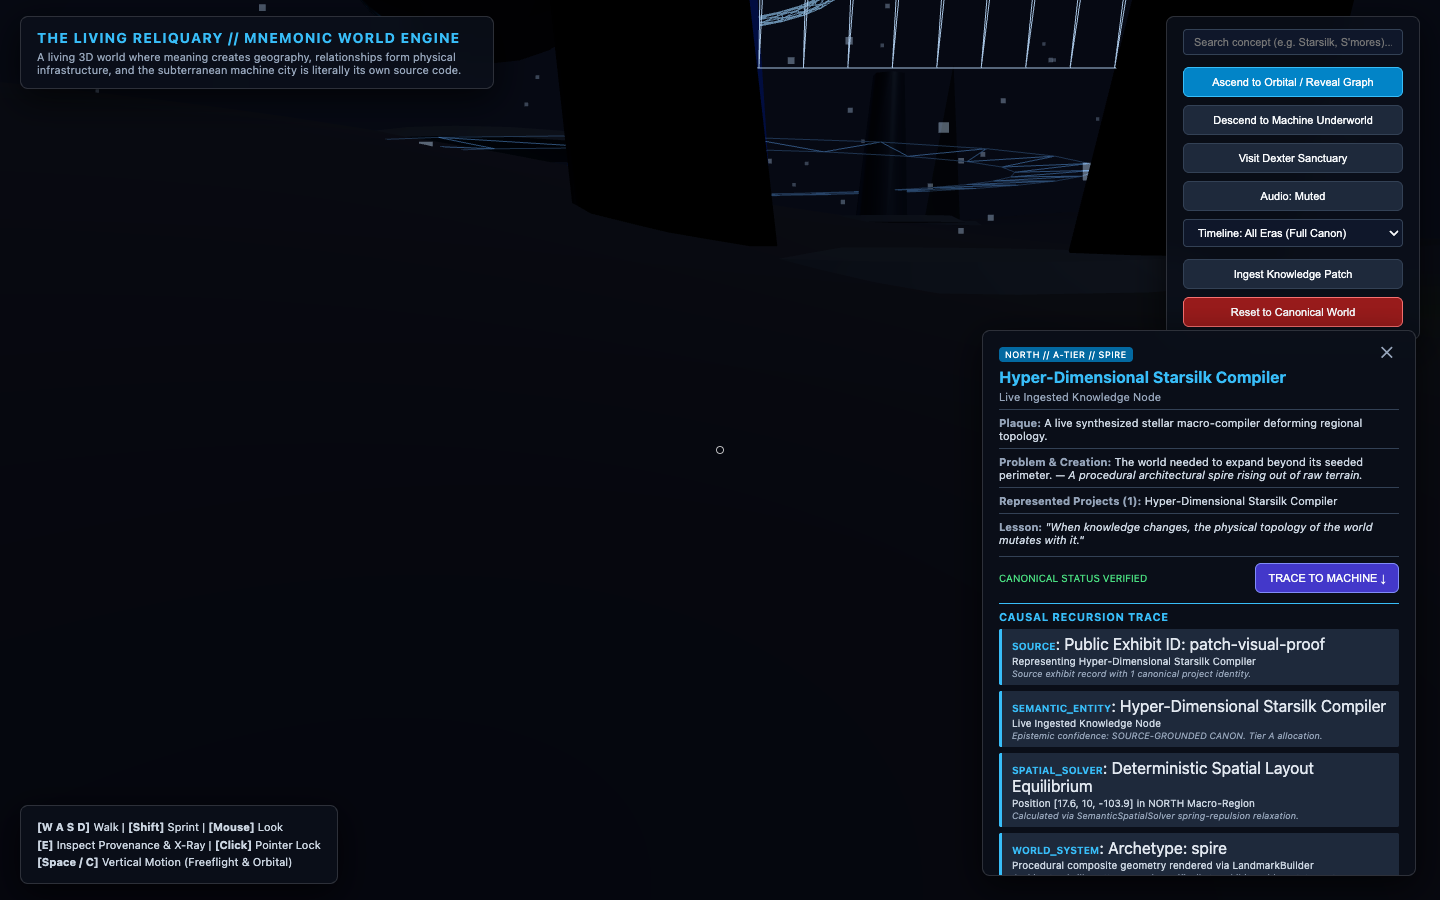
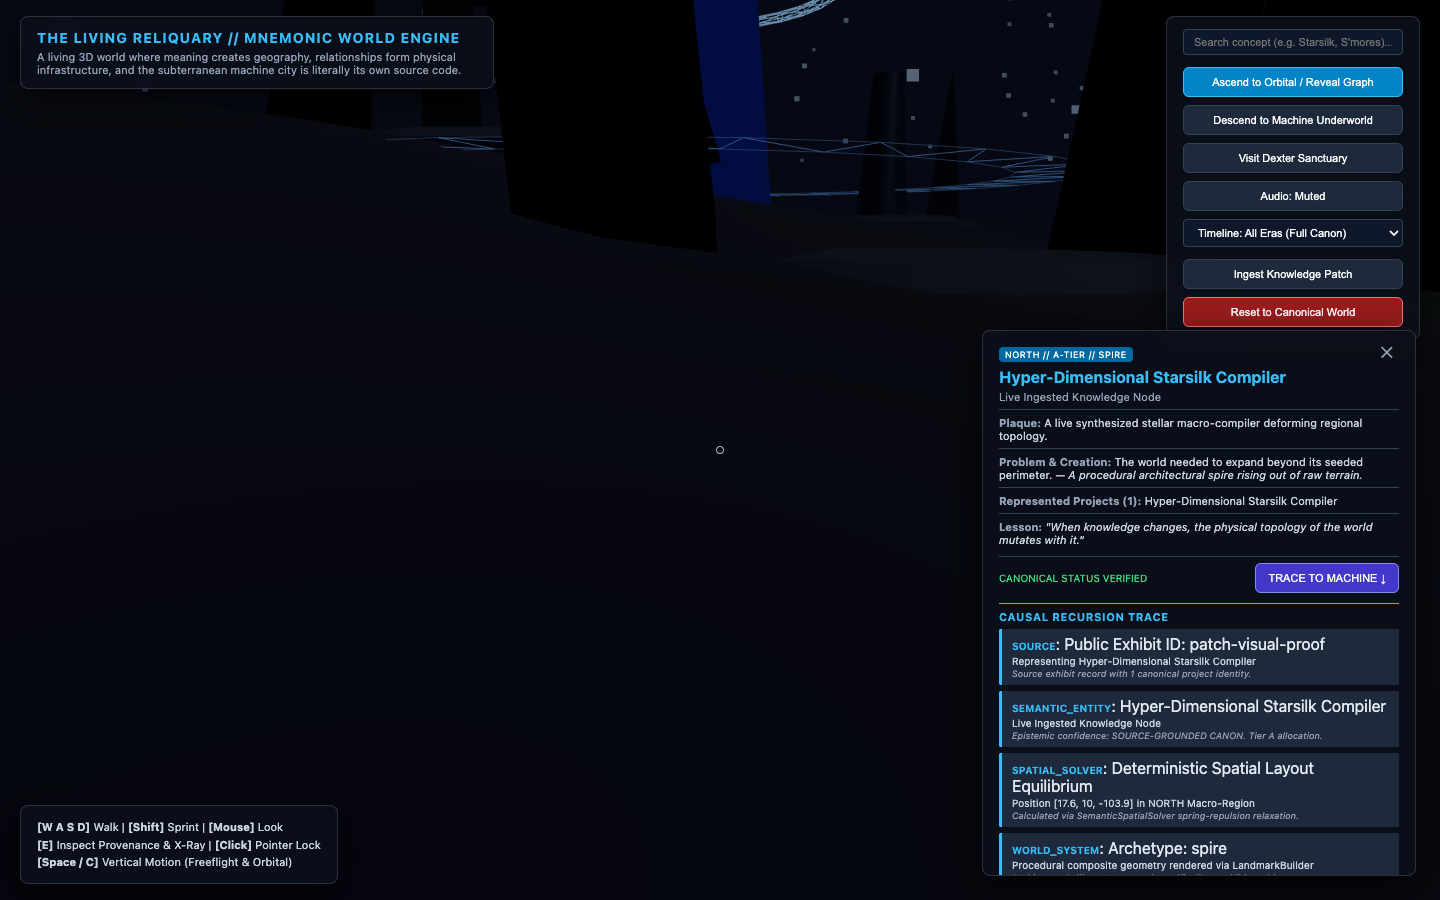
refine(loop-02): authored hero landmarks for Starsilk Loom, Heliocide Lens, and Excavated Ruin

diff --git a/src/world/LandmarkBuilder.ts b/src/world/LandmarkBuilder.ts
@@ -132,30 +132,50 @@ export class LandmarkBuilder {
     return group;
   }
 
-  // 1. E01: Starsilk Loom
+  // 1. E01: Starsilk Loom (Hero celestial weaving engine)
   private static buildStarsilkLoom(g: THREE.Group, s: number) {
-    const obsidian = this.getMaterial(0x0a0f1d, 0.2, 0.8);
-    const starMetal = this.getMaterial(0x3d5afe, 0.3, 0.9, 0x1a237e);
+    const obsidian = this.getMaterial(0x0a0f1d, 0.2, 0.85);
+    const starMetal = this.getMaterial(0x38bdf8, 0.2, 0.9, 0x0369a1);
+    const goldAccents = this.getMaterial(0xf59e0b, 0.3, 0.8);
 
-    // Twin arching celestial warp towers
-    for (const side of [-1, 1]) {
-      const tower = new THREE.Mesh(new THREE.CylinderGeometry(0.8 * s, 1.6 * s, 22 * s, 8), obsidian);
-      tower.position.set(side * 5 * s, 11 * s, 0);
-      tower.rotation.z = -side * 0.1;
-      g.add(tower);
+    // Quadruple stepped pylons with canted buttresses
+    for (const sx of [-1, 1]) {
+      for (const sz of [-1, 1]) {
+        const tower = new THREE.Mesh(new THREE.CylinderGeometry(0.6 * s, 1.4 * s, 26 * s, 6), obsidian);
+        tower.position.set(sx * 5.5 * s, 13 * s, sz * 2.5 * s);
+        tower.rotation.z = -sx * 0.08;
+        g.add(tower);
+      }
     }
 
-    // Weaving beam across the top
-    const beam = new THREE.Mesh(new THREE.BoxGeometry(12 * s, 1.2 * s, 2 * s), starMetal);
-    beam.position.set(0, 20 * s, 0);
-    g.add(beam);
+    // Overhead crowned shuttle gantry
+    const gantry = new THREE.Mesh(new THREE.BoxGeometry(14 * s, 1.6 * s, 6 * s), starMetal);
+    gantry.position.set(0, 25 * s, 0);
+    g.add(gantry);
+
+    // Dynamic rotating celestial warp rings
+    const ring1 = new THREE.Mesh(new THREE.TorusGeometry(3.6 * s, 0.3 * s, 8, 32), goldAccents);
+    ring1.position.set(0, 16 * s, 0);
+    ring1.name = 'rotating_ring_1';
+    g.add(ring1);
+
+    const ring2 = new THREE.Mesh(new THREE.TorusGeometry(5.2 * s, 0.25 * s, 8, 32), starMetal);
+    ring2.position.set(0, 16 * s, 0);
+    ring2.name = 'rotating_ring_2';
+    g.add(ring2);
 
     // Dynamic hanging Starsilk warp threads
-    const threadMat = new THREE.MeshBasicMaterial({ color: 0x82b1ff, wireframe: true });
-    const threads = new THREE.Mesh(new THREE.PlaneGeometry(8 * s, 16 * s, 12, 1), threadMat);
-    threads.position.set(0, 11 * s, 0);
+    const threadMat = new THREE.MeshBasicMaterial({ color: 0x93c5fd, wireframe: true, transparent: true, opacity: 0.85 });
+    const threads = new THREE.Mesh(new THREE.PlaneGeometry(10 * s, 20 * s, 16, 2), threadMat);
+    threads.position.set(0, 14 * s, 0);
     threads.name = 'starsilk_threads';
     g.add(threads);
+
+    // Suspended central crystalline bobbin
+    const bobbin = new THREE.Mesh(new THREE.OctahedronGeometry(1.8 * s), starMetal);
+    bobbin.position.set(0, 16 * s, 0);
+    bobbin.name = 'kinetic_core';
+    g.add(bobbin);
   }
 
   // 2. E03: Orbital Tomb Dismantler
@@ -198,38 +218,78 @@ export class LandmarkBuilder {
     g.add(ring);
   }
 
-  // 4. E08: Heliocide Absence Lens
+  // 4. E08: Heliocide Absence Lens (Massive astronomical occulter)
   private static buildHeliocideLens(g: THREE.Group, s: number) {
-    const darkObsidian = this.getMaterial(0x020408, 0.1, 0.9);
+    const darkObsidian = this.getMaterial(0x020408, 0.1, 0.95);
     const voidMat = new THREE.MeshBasicMaterial({ color: 0x000000 });
+    const goldFoil = this.getMaterial(0xd97706, 0.2, 0.9, 0x78350f);
+
+    // Heavy tripod buttress foundation
+    for (let i = 0; i < 3; i++) {
+      const a = (i / 3) * Math.PI * 2;
+      const leg = new THREE.Mesh(new THREE.CylinderGeometry(0.8 * s, 1.8 * s, 16 * s, 6), darkObsidian);
+      leg.position.set(Math.cos(a) * 7 * s, 8 * s, Math.sin(a) * 7 * s);
+      leg.rotation.z = Math.cos(a) * 0.25;
+      leg.rotation.x = -Math.sin(a) * 0.25;
+      g.add(leg);
+    }
 
     // Enormous vertical aperture framing void of stars
-    const frame = new THREE.Mesh(new THREE.TorusGeometry(6 * s, 1.2 * s, 8, 32), darkObsidian);
-    frame.position.set(0, 12 * s, 0);
+    const frame = new THREE.Mesh(new THREE.TorusGeometry(7.5 * s, 1.4 * s, 8, 36), darkObsidian);
+    frame.position.set(0, 16 * s, 0);
     g.add(frame);
 
-    const absenceCore = new THREE.Mesh(new THREE.CircleGeometry(5.2 * s, 32), voidMat);
-    absenceCore.position.set(0, 12 * s, 0.1);
+    // Concentric sensor calibration iris
+    const iris = new THREE.Mesh(new THREE.TorusGeometry(6.2 * s, 0.3 * s, 8, 32), goldFoil);
+    iris.position.set(0, 16 * s, 0.1);
+    iris.name = 'rotating_ring_1';
+    g.add(iris);
+
+    const absenceCore = new THREE.Mesh(new THREE.CircleGeometry(6 * s, 36), voidMat);
+    absenceCore.position.set(0, 16 * s, 0.2);
     g.add(absenceCore);
   }
 
-  // 5. E09: Excavated Ruin
+  // 5. E09: Excavated Ruin (Foundational Reliquary Architecture)
   private static buildExcavatedRuin(g: THREE.Group, s: number) {
-    const stone = this.getMaterial(0x2a2430, 0.9, 0.1);
-    const relicGlow = this.getMaterial(0xe1bee7, 0.4, 0.6, 0x311b92);
+    const stone = this.getMaterial(0x2a2430, 0.85, 0.15);
+    const relicGlow = this.getMaterial(0xe1bee7, 0.3, 0.7, 0x6b21a8);
+    const ancientGold = this.getMaterial(0xca8a04, 0.4, 0.7);
 
-    for (let i = 0; i < 6; i++) {
-      const a = (i / 6) * Math.PI * 2;
-      const height = (4 + (i % 3) * 3) * s;
-      const col = new THREE.Mesh(new THREE.CylinderGeometry(0.8 * s, 0.9 * s, height, 8), stone);
-      col.position.set(Math.cos(a) * 5 * s, height / 2, Math.sin(a) * 5 * s);
-      col.rotation.z = (i % 2 === 0 ? 0.08 : -0.08);
+    // Stepped ziggurat trench platform
+    const platform1 = new THREE.Mesh(new THREE.BoxGeometry(16 * s, 1 * s, 16 * s), stone);
+    platform1.position.set(0, 0.5 * s, 0);
+    g.add(platform1);
+
+    const platform2 = new THREE.Mesh(new THREE.BoxGeometry(11 * s, 1.2 * s, 11 * s), stone);
+    platform2.position.set(0, 1.6 * s, 0);
+    g.add(platform2);
+
+    // Broken colonnade perimeter
+    for (let i = 0; i < 8; i++) {
+      const a = (i / 8) * Math.PI * 2;
+      const height = (5 + (i % 4) * 2.5) * s;
+      const col = new THREE.Mesh(new THREE.CylinderGeometry(0.9 * s, 1.1 * s, height, 8), stone);
+      col.position.set(Math.cos(a) * 6.5 * s, (1.6 + height / 2) * s, Math.sin(a) * 6.5 * s);
+      col.rotation.z = (i % 2 === 0 ? 0.06 : -0.06);
       g.add(col);
     }
 
-    const artifactAltar = new THREE.Mesh(new THREE.BoxGeometry(4 * s, 1 * s, 4 * s), relicGlow);
-    artifactAltar.position.set(0, 0.5 * s, 0);
+    // Central relic sarcophagus with glowing runic core
+    const artifactAltar = new THREE.Mesh(new THREE.BoxGeometry(4.5 * s, 2 * s, 3 * s), stone);
+    artifactAltar.position.set(0, 3 * s, 0);
     g.add(artifactAltar);
+
+    const relicCore = new THREE.Mesh(new THREE.DodecahedronGeometry(1.4 * s), relicGlow);
+    relicCore.position.set(0, 4.8 * s, 0);
+    relicCore.name = 'kinetic_core';
+    g.add(relicCore);
+
+    // Ancient floating ring of remembrance
+    const halo = new THREE.Mesh(new THREE.TorusGeometry(2.8 * s, 0.15 * s, 6, 24), ancientGold);
+    halo.position.set(0, 4.8 * s, 0);
+    halo.name = 'rotating_ring_1';
+    g.add(halo);
   }
 
   // 6. E10: WorldsVault Chasm Vault
